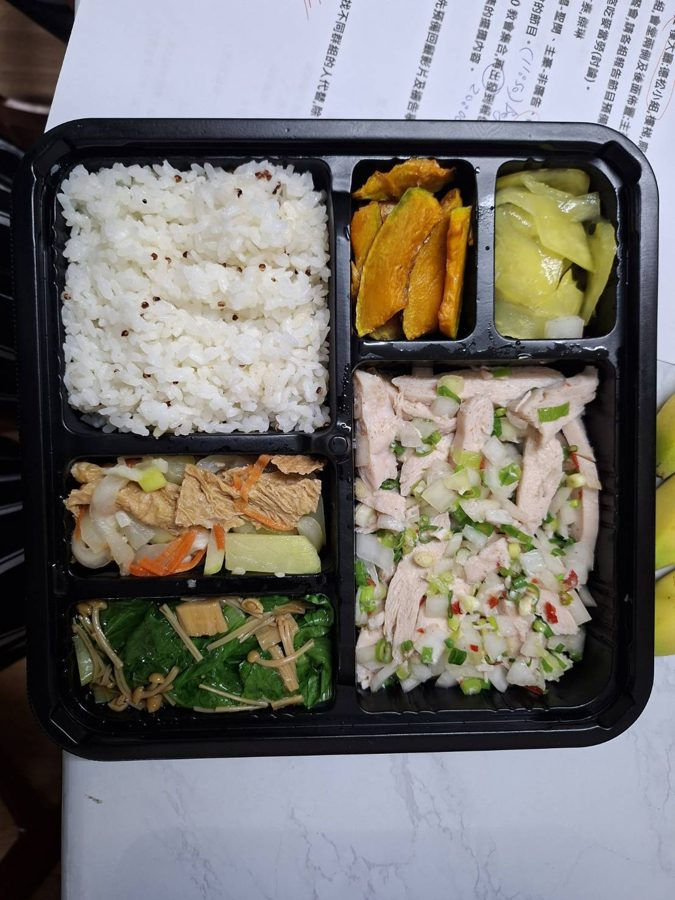
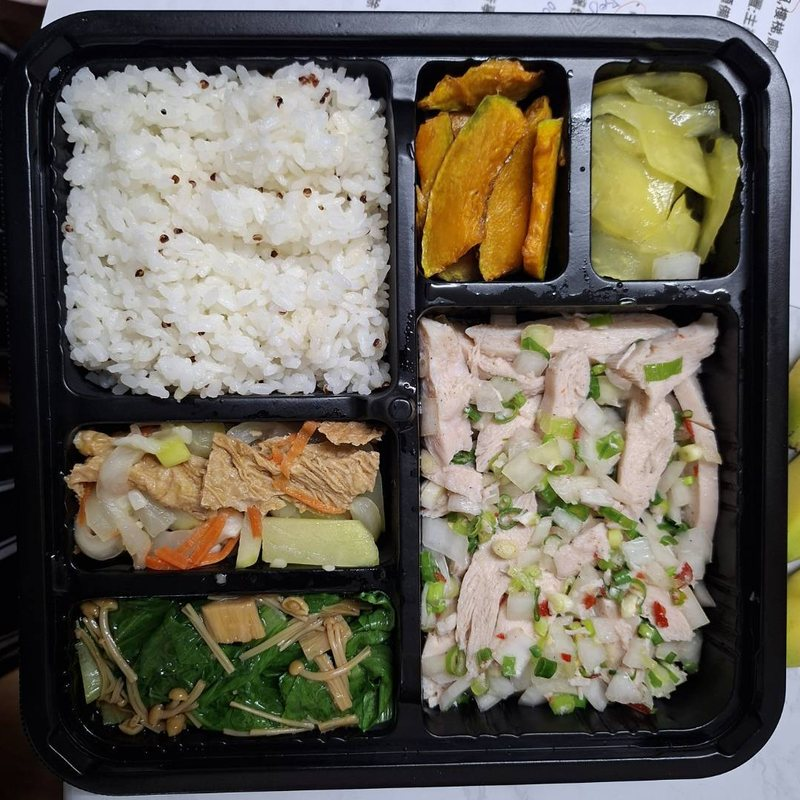
感恩餐會頁：改標題與文案、DM 置頂、餐盒照轉正裁邊、經文移到最後（預覽分支）

diff --git a/src/content/news/2026-10-26-thanksgiving-dinner.md b/src/content/news/2026-10-26-thanksgiving-dinner.md
@@ -1,16 +1,14 @@
 ---
-title: 希望教會中的感恩餐會｜11/28（六）一起吃飯、一起歡笑、一起數算神的恩典
+title: 2026希望一起感恩餐會
 date: "2026-10-26"
-description: 11 月 28 日（六）晚上 6 點，教會一樓。美食、遊戲、見證分享，歡迎邀請家人朋友一起來，現在就可以線上報名並選便當。
+description: 11 月 28 日（六）晚上 6 點，教會一樓。一起吃飯、玩遊戲、聽聽朋友的故事，歡迎帶家人朋友一起來，現在就可以線上報名並選餐盒。
+cover: /images/news/thanksgiving-2026/dm-square.jpg
 signupForm: thanksgiving
 ---
 
-> 凡事謝恩，因為這是神在基督耶穌裡向你們所定的旨意。
-> ——帖撒羅尼迦前書 5:18
+這一年大家都忙，11 月 28 日這個晚上，我們想請你停下來，跟我們一起好好吃一頓飯。
 
-這一年，神帶我們走過許多日子。感恩節這天，我們想好好坐下來，一起吃一頓飯，聽聽彼此的故事，數算神給我們的恩典。
-
-歡迎你帶著家人和朋友一起來。
+教會一樓會準備特選餐盒、遊戲，還有幾位朋友分享這一年的真實故事。不管你有沒有來過教會，都歡迎。一個人來、全家一起來、帶朋友來，都可以。
 
 ---
 
@@ -20,7 +18,7 @@ signupForm: thanksgiving
 |------|------|
 | 日期 | 2026 年 11 月 28 日（六） |
 | 時間 | 18:00–21:00 |
-| 地點 | 教會一樓 |
+| 地點 | 教會一樓（[台中市南區工學北路 169 號](https://maps.google.com/maps?q=台中市南區工學北路169號)） |
 | 費用 | 大人 $300／位，小孩由教會補助麥當勞（細節見下方） |
 
 ---
@@ -29,8 +27,8 @@ signupForm: thanksgiving
 
 - **享用美食**：一起品嚐溫馨的餐點
 - **趣味活動**：遊戲互動，歡樂滿滿
-- **見證分享**：聽見神的作為與祝福
-- **分享神的恩典**：彼此鼓勵，一同成長
+- **故事分享**：聽聽朋友這一年的真實故事
+- **彼此鼓勵**：互相打氣，一起成長
 
 ---
 
@@ -39,3 +37,4 @@ signupForm: thanksgiving
 在下方填寫報名表，一次可以幫全家報名。每位參加的人都要選好餐點。
 
 有問題請洽各小組長或鳳梅師母，也可以撥打教會電話 [04-2265-1572](tel:0422651572)。
+
